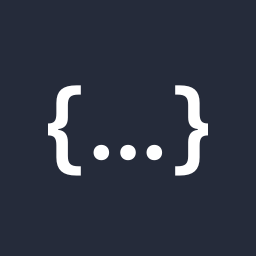
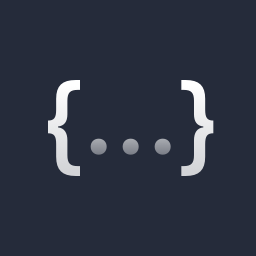
Implement Mount component and filters in the CreateServicePicker

diff --git a/plugins/services/src/js/components/modals/NewCreateServiceModalServicePicker.js b/plugins/services/src/js/components/modals/NewCreateServiceModalServicePicker.js
@@ -1,144 +1,85 @@
+import {Hooks} from 'PluginSDK';
+import {MountService} from 'foundation-ui';
 /* eslint-disable no-unused-vars */
 import React from 'react';
 /* eslint-enable no-unused-vars */
+import {routerShape} from 'react-router';
 
-import defaultServiceImage from '../../../img/icon-service-default-medium@2x.png';
-import jsonServiceImage from '../../../img/service-image-json-medium@2x.png';
-import CosmosPackagesStore from '../../../../../../src/js/stores/CosmosPackagesStore';
+import CreateServiceModalServicePickerOption from '../../../../../../src/js/components/CreateServiceModalServicePickerOption';
+import CreateServiceModalServicePickerOptionWrapper from '../../../../../../src/js/components/CreateServiceModalServicePickerOptionWrapper';
+import defaultServiceImage from '../../../img/icon-service-default-large@2x.png';
 import Image from '../../../../../../src/js/components/Image';
-import Panel from '../../../../../../src/js/components/Panel';
+import jsonServiceImage from '../../../img/service-image-json-large@2x.png';
+
+const METHODS_TO_BIND = ['handleServiceSelect'];
 
 class NewCreateServiceModalServicePicker extends React.Component {
   constructor() {
     super(...arguments);
 
-    this.state = {
-    };
+    METHODS_TO_BIND.forEach((method) => {
+      this[method] = this[method].bind(this);
+    });
   }
 
   handleServiceSelect(service) {
     this.props.onServiceSelect(service);
   }
 
-  getCustomServiceGrid() {
-    let customOptions = [{
-      icon: (
-        <Image fallbackSrc={defaultServiceImage} src={defaultServiceImage} />
-      ),
-      label: 'Use the Form',
-      type: 'app'
-    }, {
-      icon: (
-        <Image fallbackSrc={defaultServiceImage} src={defaultServiceImage} />
-      ),
-      label: 'Use the Form to create a MultiContainer',
-      type: 'pod'
-    }, {
-      icon: (
-        <Image fallbackSrc={jsonServiceImage} src={jsonServiceImage} />
-      ),
-      label: 'Enter JSON',
-      type: 'json'
-    }].map((item, index) => {
-      return this.getServiceOption(
-        this.getServiceOptionIconWrapper(item.icon),
-        item.label,
-        index,
-        item
-      );
-    });
-
-    return (
-      <div className="create-service-modal-service-picker-options panel-grid row">
-        {customOptions}
-      </div>
-    );
-  }
-
-  getPackageIcon(cosmosPackage) {
-    return (
-      <Image
-        fallbackSrc={defaultServiceImage}
-        src={cosmosPackage.getIcons()['icon-medium']} />
-    );
-  }
-
-  getServiceDeployOptions() {
-    // TODO: Implement the correct copy when received. DCOS-11807
-    return (
-      <div className="create-service-modal-service-picker container text-align-center">
-        <h4 className="short flush-top">
-          Run your own Service
-        </h4>
-        <p className="lead tall">
-          Create a containerized service or run a command in one of two ways: use our form to be guided through the correct configuration, or enter your JSON configuration directly.
-        </p>
-        {this.getCustomServiceGrid()}
-      </div>
-    );
-  }
-
-  getServiceOption(icon, title, index, service) {
-    return (
-      <div className="create-service-modal-service-picker-option panel-grid-item column-12 column-small-4 column-large-3"
-        key={index}>
-        <Panel className="panel-interactive clickable"
-          contentClass={[
-            'horizontal-center panel-cell-short flush-top',
-            {
-              'panel-cell-shorter': false
-            }
-          ]}
-          heading={icon}
-          headingClass={[
-            'panel-cell-borderless horizontal-center panel-cell-short',
-            {
-              'panel-cell-light': false,
-              'panel-cell-shorter': false
-            }
-          ]}
-          onClick={this.handleServiceSelect.bind(this, service)}>
-          <h5 className="flush text-align-center">
-            {title}
-          </h5>
-        </Panel>
-      </div>
-    );
-  }
-
-  getServiceOptionIconWrapper(icon) {
-    return (
-      <div className="icon icon-jumbo icon-image-container icon-app-container icon-default-white">
-        {icon}
-      </div>
-    );
-  }
-
-  getUniversePackagesGrid() {
-    const packages = CosmosPackagesStore.getAvailablePackages();
-    let packagesGrid = packages.getItems().map((cosmosPackage, index) => {
-      return this.getServiceOption(
-        this.getServiceOptionIconWrapper(this.getPackageIcon(cosmosPackage)),
-        cosmosPackage.getName(),
-        index,
-        cosmosPackage
-      );
-    });
-
-    return (
-      <div className="panel-grid row">
-        {packagesGrid}
-      </div>
-    );
-  }
-
   render() {
-    return this.getServiceDeployOptions();
+    const containerClasses = Hooks.applyFilter(
+      'servicePickerOptionContainerColumnClasses',
+      'column-12 column-medium-10 column-medium-offset-1'
+    );
+
+    return (
+      <div className="create-service-modal-service-picker container">
+        <div className="create-service-modal-service-picker-options">
+          <div className="row">
+            <div className={containerClasses}>
+              <div className="row panel-grid">
+                <CreateServiceModalServicePickerOptionWrapper>
+                  <CreateServiceModalServicePickerOption
+                    icon={<Image src={defaultServiceImage} />}
+                    offset={true}
+                    onOptionSelect={
+                      this.handleServiceSelect.bind(null, {type: 'app'})
+                    }
+                    title="Single Container" />
+                </CreateServiceModalServicePickerOptionWrapper>
+                <CreateServiceModalServicePickerOptionWrapper>
+                  <CreateServiceModalServicePickerOption
+                    icon={<Image src={defaultServiceImage} />}
+                    onOptionSelect={
+                      this.handleServiceSelect.bind(null, {type: 'pod'})
+                    }
+                    title="Multi-container (Pod)"
+                    />
+                </CreateServiceModalServicePickerOptionWrapper>
+                <CreateServiceModalServicePickerOptionWrapper>
+                  <CreateServiceModalServicePickerOption
+                    icon={<Image src={jsonServiceImage} />}
+                    onOptionSelect={
+                      this.handleServiceSelect.bind(null, {type: 'json'})
+                    }
+                    title="JSON Configuration" />
+                </CreateServiceModalServicePickerOptionWrapper>
+                <MountService.Mount
+                  type="CreateService:ServicePicker:GridOptions"
+                  onOptionSelect={this.handleServiceSelect}
+                  redirect={(route) => this.props.router.push(route)} />
+              </div>
+            </div>
+          </div>
+        </div>
+      </div>
+    );
   }
 }
 
 NewCreateServiceModalServicePicker.propTypes = {
-  onServiceSelect: React.PropTypes.func
+  onServiceSelect: React.PropTypes.func,
+  router: routerShape
 };
 
 module.exports = NewCreateServiceModalServicePicker;

diff --git a/src/js/components/CreateServiceModalServicePickerOption.js b/src/js/components/CreateServiceModalServicePickerOption.js
@@ -1,0 +1,35 @@
+import React from 'react';
+
+import Panel from './Panel';
+
+function CreateServiceModalServicePickerOption({icon, title, onOptionSelect}) {
+  return (
+    <Panel className="panel-interactive clickable"
+      contentClass={[
+        'horizontal-center panel-cell flush-top',
+        {
+          'panel-cell-short': false,
+          'panel-cell-shorter': false
+        }
+      ]}
+      heading={(
+        <div className="icon icon-jumbo icon-image-container icon-app-container">
+          {icon}
+        </div>
+      )}
+      headingClass={[
+        'panel-cell-borderless horizontal-center panel-cell',
+        {
+          'panel-cell-light': false,
+          'panel-cell-shorter': false
+        }
+      ]}
+      onClick={onOptionSelect}>
+      <h5 className="flush text-align-center">
+        {title}
+      </h5>
+    </Panel>
+  );
+}
+
+module.exports = CreateServiceModalServicePickerOption;

diff --git a/src/js/plugin-bridge/PluginModules.js b/src/js/plugin-bridge/PluginModules.js
@@ -67,6 +67,10 @@ module.exports = {
     ConfigurationMapSection: 'ConfigurationMapSection',
     ConfigurationMapValue: 'ConfigurationMapValue',
     CollapsingString: 'CollapsingString',
+    CreateServiceModalServicePickerOption:
+      'CreateServiceModalServicePickerOption',
+    CreateServiceModalServicePickerOptionWrapper:
+      'CreateServiceModalServicePickerOptionWrapper',
     DetailViewHeader: 'DetailViewHeader',
     DCOSLogo: 'DCOSLogo',
     FilterBar: 'FilterBar',
@@ -77,11 +81,13 @@ module.exports = {
     FormModal: 'FormModal',
     HashMapDisplay: 'HashMapDisplay',
     Icon: 'Icon',
+    Image: 'Image',
     Loader: 'Loader',
     MesosphereLogo: 'icons/MesosphereLogo',
     ModalHeading: 'modals/ModalHeading',
     NestedServiceLinks: 'NestedServiceLinks',
     Page: 'Page',
+    Panel: 'Panel',
     RequestErrorMsg: 'RequestErrorMsg',
     StatusBar: 'StatusBar',
     TabForm: 'TabForm',

diff --git a/plugins/services/src/js/components/modals/NewCreateServiceModal.js b/plugins/services/src/js/components/modals/NewCreateServiceModal.js
@@ -1,6 +1,7 @@
 import classNames from 'classnames';
-import React, {Component, PropTypes} from 'react';
 import {Hooks} from 'PluginSDK';
+import React, {Component, PropTypes} from 'react';
+import {routerShape} from 'react-router';
 
 import Application from '../../structs/Application';
 import PodSpec from '../../structs/PodSpec';
@@ -331,7 +332,8 @@ class NewServiceFormModal extends Component {
     if (servicePickerActive) {
       return (
         <NewCreateServiceModalServicePicker
-          onServiceSelect={this.handleServiceSelection} />
+          onServiceSelect={this.handleServiceSelection}
+          router={this.context.router} />
       );
     }
 
@@ -539,6 +541,10 @@ class NewServiceFormModal extends Component {
     );
   }
 }
+
+NewServiceFormModal.contextTypes = {
+  router: routerShape
+};
 
 NewServiceFormModal.propTypes = {
   clearError: PropTypes.func.isRequired,

diff --git a/src/js/components/CreateServiceModalServicePickerOptionWrapper.js b/src/js/components/CreateServiceModalServicePickerOptionWrapper.js
@@ -1,0 +1,16 @@
+import {Hooks} from 'PluginSDK';
+import React from 'react';
+
+function ServicePickerOptionWrapper({children}) {
+  const columnClass = Hooks.applyFilter(
+    'servicePickerOptionColumnClasses', 'column-12 column-small-4'
+  );
+
+  return (
+    <div className={`create-service-modal-service-picker-option panel-grid-item ${columnClass}`}>
+      {children}
+    </div>
+  );
+}
+
+module.exports = ServicePickerOptionWrapper;

diff --git a/src/styles/views/create-service-modal/styles.less b/src/styles/views/create-service-modal/styles.less
@@ -3,6 +3,7 @@
   .create-service-modal {
 
     &-service-picker {
+      align-items: stretch;
       display: flex;
       flex-direction: column;
       justify-content: center;
@@ -14,6 +15,10 @@
 
       &-option {
         flex: 0 0 auto;
+
+        .panel-content {
+          justify-content: center;
+        }
       }
     }
 

diff --git a/src/styles/components/icons/styles.less b/src/styles/components/icons/styles.less
@@ -1,6 +1,7 @@
 & when (@icon-enabled) {
 
   .icon {
+    position: relative;
 
     svg {
       display: block;
@@ -93,6 +94,13 @@
     .button &,
     button & {
       flex: 0 0 auto;
+    }
+
+    .icon {
+      left: 50%;
+      position: absolute;
+      top: 50%;
+      transform: translate(-50%, -50%);
     }
   }
 
